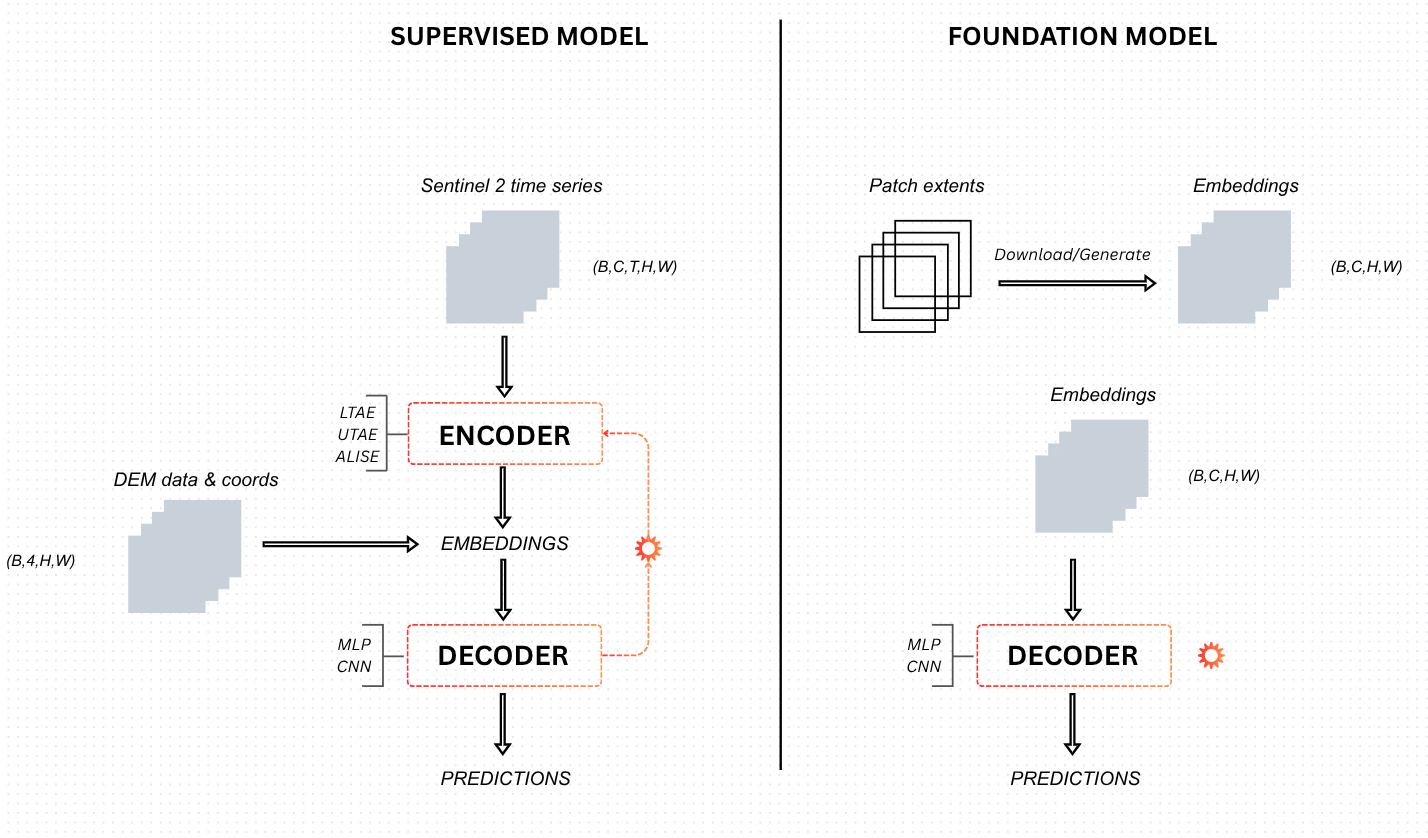
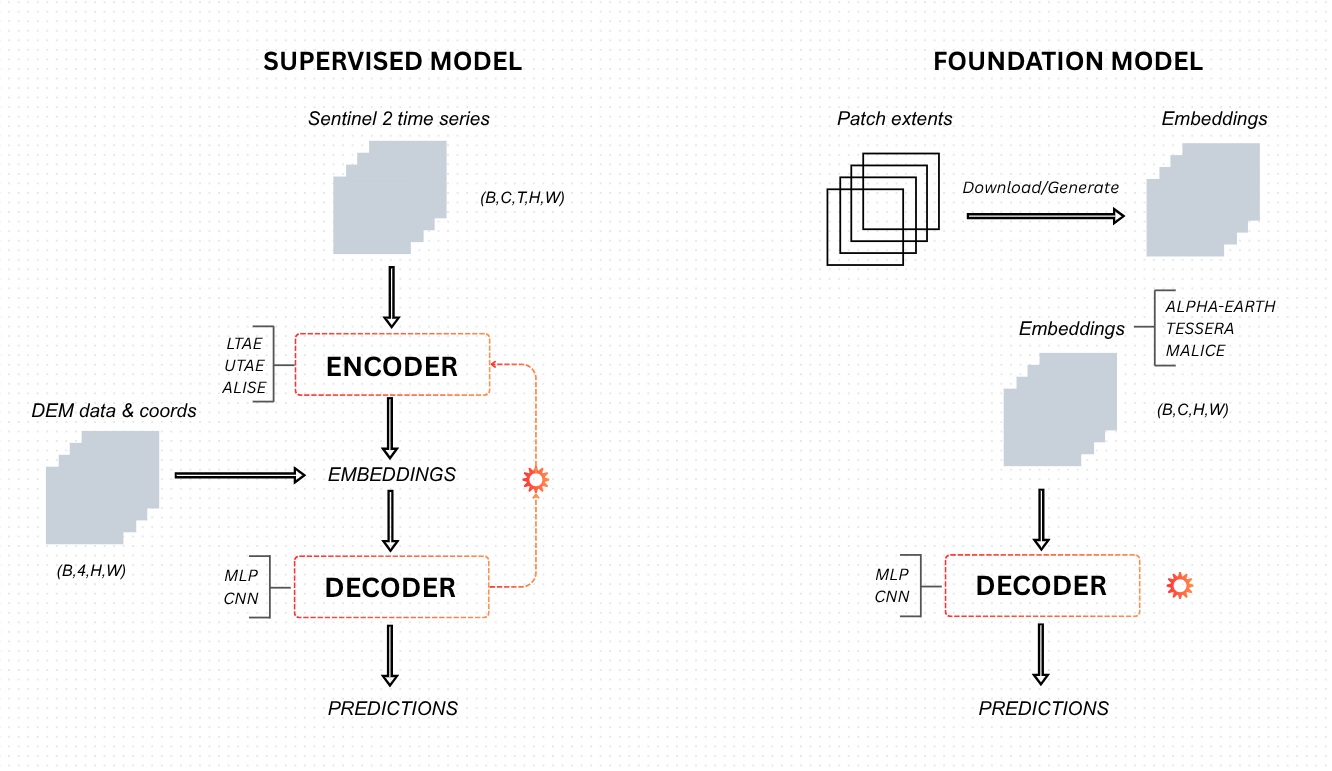
minor changes, add other figures in overview notebokk

diff --git a/data_functions/plot_functions.py b/data_functions/plot_functions.py
@@ -9,11 +9,9 @@ import pandas
 import geopandas as gpd
 import rasterio
 import torch
-from torch.utils.data import DataLoader
 
 from matplotlib import pyplot as plt
 from matplotlib.colors import ListedColormap
-import matplotlib.dates as mdates
 import matplotlib.gridspec as gridspec
 import seaborn as sns
 
@@ -129,7 +127,7 @@ def count_label(dataset, normalized=False, plot=True):
     return classes
 
 
-def count_label_easier(dataset, normalized=False, plot=True):
+def plot_label_histogram(dataset, normalized=False, plot=True):
     classes = np.zeros(25)
 
     for i in range(len(dataset)):
@@ -267,90 +265,6 @@ def compare_dataset(
         plt.show()
 
     return norm1, norm2
-
-
-def count_timestep_dataloard(dataset, plot=True, num_workers=8):
-    # Fonction collate qui ne récupère que les dates
-    def collate_dates(batch):
-        return [item[0][1] for item in batch]
-
-    loader = DataLoader(
-        dataset,
-        batch_size=32,
-        num_workers=num_workers,  # chargement parallèle
-        collate_fn=collate_dates,
-    )
-
-    list_date = []
-    for batch_dates in loader:
-        list_date.extend(batch_dates)
-
-    all_dates = np.concatenate(list_date).astype("datetime64[D]")
-    if plot:
-        fig, ax = plt.subplots(figsize=(14, 5))
-        ax.hist(
-            all_dates.astype("int64"),
-            bins=50,  # bins temporels
-            color="#3266ad",
-            edgecolor="white",
-            linewidth=0.5,
-        )
-        # Ticks lisibles en dates
-        ax.xaxis.set_major_formatter(mdates.DateFormatter("%Y-%m"))
-        ax.xaxis.set_major_locator(mdates.MonthLocator(interval=2))
-        plt.xticks(rotation=45, ha="right")
-        ax.set_xlabel("Date")
-        ax.set_ylabel("Nombre de timestamps")
-        ax.set_title("Répartition temporelle des données")
-        ax.grid(True, linestyle="--", alpha=0.5)
-        plt.tight_layout()
-        plt.show()
-
-    return all_dates
-
-
-def histogram_valid_per_pixel(dataset, plot=True, density=False, num_workers=8):
-    def collate_masks(batch):
-        return [item[0][2] for item in batch]  # (T,H,W)
-
-    loader = DataLoader(
-        dataset,
-        batch_size=8,
-        num_workers=num_workers,
-        collate_fn=collate_masks,
-    )
-
-    all_values = []  # 👉 on stocke les counts, pas les maps
-
-    for batch_masks in loader:
-        for mask in batch_masks:
-            # (T,H,W) → (H,W)
-            valid_count = mask.sum(axis=0)
-
-            # 👉 on flatten DIRECTEMENT
-            all_values.append(valid_count.flatten())
-
-    # concat de tous les pixels de tous les samples
-    values = np.concatenate(all_values)
-
-    if plot:
-        plt.figure(figsize=(8, 5))
-        plt.hist(
-            values,
-            bins=100,
-            color="#3266ad",
-            edgecolor="white",
-            linewidth=0.5,
-            density=density,
-        )
-        plt.xlabel("Nombre de dates valides par pixel")
-        plt.ylabel("Nombre de pixels")
-        plt.title("Dates per pixels")
-        plt.grid(True, linestyle="--", alpha=0.5)
-        plt.tight_layout()
-        plt.show()
-
-    return values
 
 
 def plot_label(patch: xr.Dataset | np.ndarray):
@@ -1182,20 +1096,23 @@ def plot_eco_zone_by_folds(path_data):
     df = df.reset_index().rename(columns={"index": "patch_id"})
     cross_tab = pandas.crosstab(df["ecozone"], df["fold"])
 
-    # 4. Tracer l'histogramme empilé (chaque barre = écozone, divisée en 5 folds)
+    cross_tab_formatted = cross_tab.copy()
+    cross_tab_formatted.index = cross_tab_formatted.index.map(eco_zone_titles_english)
+    cross_tab_formatted.index.name = "ecozone"
+    cross_tab_formatted.columns = [f"Fold {c}" for c in cross_tab_formatted.columns]
+    cross_tab_formatted.columns.name = "fold"
+    cross_tab_formatted["Total"] = cross_tab_formatted.sum(axis=1)
+
     plt.figure(figsize=(12, 8))
 
-    # Créer le graphique empilé
     bottom = None
     colors = sns.color_palette("deep", 5)  # 5 couleurs pour les 5 folds
 
     for fold in range(1, 6):
-        # Extraire les valeurs pour ce fold
         values = cross_tab[fold]
 
-        # Tracer les barres pour ce fold
         plt.bar(
-            eco_zone_titles_english.values(),  # Écozones en abscisse
+            eco_zone_titles_english.values(),
             values,
             bottom=bottom,  # Empiler sur les folds précédents
             label=f"Fold {fold}",
@@ -1203,19 +1120,19 @@ def plot_eco_zone_by_folds(path_data):
             width=0.8,
         )
 
-        # Mettre à jour le bottom pour le prochain fold
         if bottom is None:
             bottom = values
         else:
             bottom += values
 
-    # Personnaliser le graphique
     plt.ylabel("Patch number", fontsize=12)
-    plt.xticks(ha="right", rotation=45)  # Incliner les étiquettes
+    plt.xticks(ha="right", rotation=45)
     plt.legend(loc="upper right")
     plt.tight_layout()
-    plt.grid(axis="y", linestyle="--", alpha=0.5)  # Grille horizontale
+    plt.grid(axis="y", linestyle="--", alpha=0.5)
     plt.show()
+
+    return cross_tab_formatted
 
 
 def count_label_compare(
@@ -1283,3 +1200,47 @@ def count_label_compare(
         plt.show()
 
     return classes
+
+
+def plot_histogram_dates_number(dataset):
+    dates_array = np.zeros((len(dataset)), dtype=object)
+    for i in range(len(dataset)):
+        date = dataset[i][0][1]
+        dates_array[i] = date.shape[0]
+        dates_count = np.array(dates_array, dtype=int)
+
+    # Création de l'histogramme
+    fig, ax = plt.subplots(figsize=(12, 6))
+
+    # Histogramme avec bins automatiques ou définis
+    counts, bins, patches = ax.hist(
+        dates_count,
+        bins=range(min(dates_count), max(dates_count) + 2),
+        color="steelblue",
+        edgecolor="black",
+        alpha=0.7,
+    )
+
+    ax.set_xlabel("Dates per patch numer ", fontsize=12)
+    ax.set_ylabel("Patch number", fontsize=12)
+
+    # Statistiques dans le coin
+    stats_text = (
+        f"Mean: {np.mean(dates_count):.1f}\Median: {np.median(dates_count):.1f}"
+    )
+    ax.text(
+        0.95,
+        0.95,
+        stats_text,
+        transform=ax.transAxes,
+        fontsize=10,
+        verticalalignment="top",
+        horizontalalignment="right",
+        bbox=dict(boxstyle="round", facecolor="wheat", alpha=0.5),
+    )
+
+    ax.grid(axis="y", alpha=0.3, linestyle="--")
+    plt.tight_layout()
+    plt.show()
+
+    return dates_count

diff --git a/src/mean_inference_time.py b/src/mean_inference_time.py
@@ -1,0 +1,27 @@
+from argparse import ArgumentParser
+from flask import json
+import os
+
+
+def main(args):
+    time = 0
+    for fold in os.listdir(args.root_dir):
+        fold_json = os.path.join(args.root_dir, fold)
+        with open(fold_json, "r") as f:
+            time += json.load(f)["mean inference_time"]
+    print(
+        f"Mean inference time across {len(os.listdir(args.root_dir))} folds: {(time / len(os.listdir(args.root_dir))) * 100:.4f} ms"
+    )
+
+
+if __name__ == "__main__":
+    print("\nPARSE ARGUMENTS ...")
+    parser = ArgumentParser()
+    parser.add_argument(
+        "--root_dir",
+        type=str,
+        required=True,
+        help="/home/hkerino/Documents/next_oso/logs/to_share/alpha-earth_2026-10-15/inference_time",
+    )
+
+    main(parser.parse_args())
